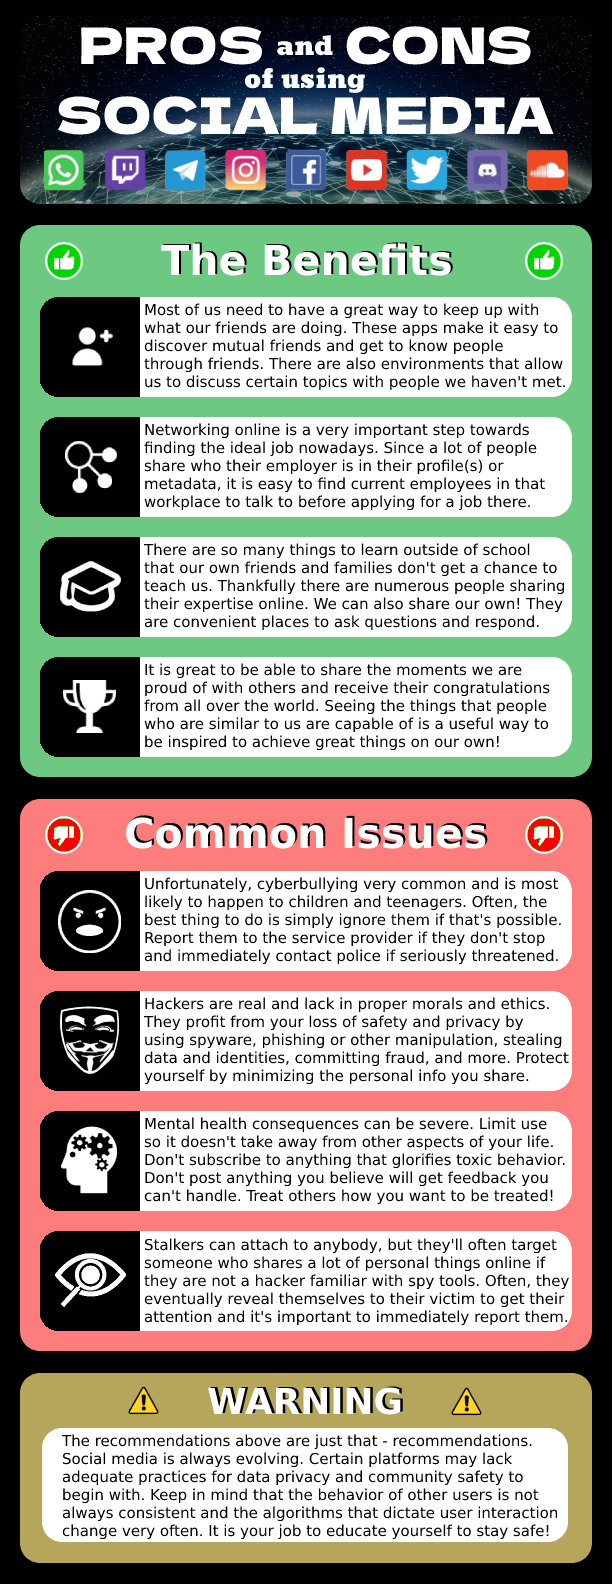
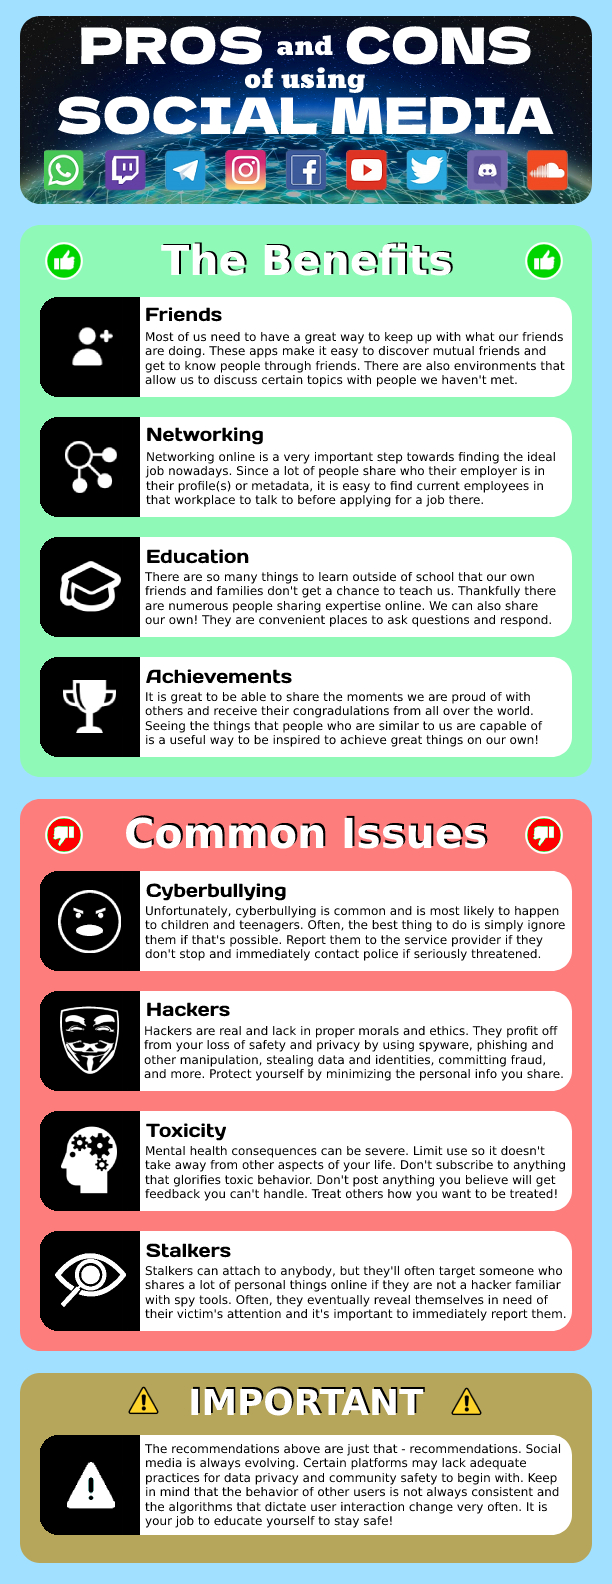
final v1

diff --git a/index.html b/index.html
@@ -1,17 +1,163 @@
 <!DOCTYPE html>
 <html lang="en" dir="ltr">
-    <head>
-        <meta charset="utf-8">
-        <title>Social Media Guidelines</title>
-    </head>
-    <body style="background-color:black">
-        <center>
-            <p>
-                <img src="SocialMediaGuidelines.jpg" />
-            </p>
-            <p>
-                <img src="Creative_commons_license_with_attribution.png" />
-            </p>
-        </center>
-    </body>
+<head>
+    <meta charset="utf-8">
+    <title>Social Media Guidelines</title>
+</head>
+<body style="background-color:black">
+    <center>
+        <p>
+            <img src="SocialMediaGuidelines.jpg" />
+        </p>
+        <p>
+            <img src="Creative_commons_license_with_attribution.png" />
+        </p>
+        
+    </center>
+    <p>Image Credits:</p>
+    <p><br></p>
+    <p>Network-Planet Image</p>
+    <ul>
+        <li>
+            <p>License:&nbsp;<a href="https://creativecommons.org/publicdomain/zero/1.0/">https://creativecommons.org/publicdomain/zero/1.0/</a></p>
+        </li>
+        <li>
+            <p>URL:&nbsp;<a href="https://www.publicdomainpictures.net/en/view-image.php?image=371622&picture=digitalization">https://www.publicdomainpictures.net/en/view-image.php?image=371622&amp;picture=digitalization</a></p>
+        </li>
+    </ul>
+    <p><br></p>
+    <p>Social Media Icons Set (Manually Separated)</p>
+    <ul>
+        <li>
+            <p>License:&nbsp;<a href="https://creativecommons.org/publicdomain/zero/1.0/">https://creativecommons.org/publicdomain/zero/1.0/</a></p>
+        </li>
+        <li>
+            <p>URL:&nbsp;<a href="https://www.publicdomainpictures.net/en/view-image.php?image=253469&picture=networking-social-media-icons">https://www.publicdomainpictures.net/en/view-image.php?image=253469&amp;picture=networking-social-media-icons</a></p>
+        </li>
+    </ul>
+    <p><br></p>
+    <p>Thumbs Up/Down Icons (Custom Made by Me)</p>
+    <ul>
+        <li>
+            <p>Author: Hans Heidmann</p>
+        </li>
+        <li>
+            <p>License:&nbsp;<a href="https://creativecommons.org/licenses/by-sa/3.0/">https://creativecommons.org/licenses/by-sa/3.0/</a></p>
+        </li>
+        <li>
+            <p>URL:&nbsp;<a href="https://hansheidmann.github.io/SocialMediaGuidelines/">https://hansheidmann.github.io/SocialMediaGuidelines/</a></p>
+        </li>
+    </ul>
+    <p><br></p>
+    <p>Add-Friend Icon</p>
+    <ul>
+        <li>
+            <p>Author: Karen Arnold</p>
+        </li>
+        <li>
+            <p>License:&nbsp;<a href="https://creativecommons.org/licenses/by/4.0/">https://creativecommons.org/licenses/by/4.0/</a></p>
+        </li>
+        <li>
+            <p>URL:&nbsp;<a href="https://www.publicdomainpictures.net/en/view-image.php?image=253469&picture=networking-social-media-icons">https://www.publicdomainpictures.net/en/view-image.php?image=253469&amp;picture=networking-social-media-icons</a></p>
+        </li>
+    </ul>
+    <p><br></p>
+    <p>Network Icon</p>
+    <ul>
+        <li>
+            <p>Author: IBM-Design</p>
+        </li>
+        <li>
+            <p>License:&nbsp;<a href="https://creativecommons.org/licenses/by/4.0/">https://creativecommons.org/licenses/by/4.0/</a></p>
+        </li>
+        <li>
+            <p>URL:&nbsp;<a href="https://iconscout.com/icon/network-363">https://iconscout.com/icon/network-363</a></p>
+        </li>
+    </ul>
+    <p><br></p>
+    <p>Graduation Icon</p>
+    <ul>
+        <li>
+            <p>Author: Typicons</p>
+        </li>
+        <li>
+            <p>License:&nbsp;<a href="https://creativecommons.org/licenses/by-sa/3.0/">https://creativecommons.org/licenses/by-sa/3.0/</a></p>
+        </li>
+        <li>
+            <p>URL:&nbsp;<a href="https://iconscout.com/icon/mortar-94">https://iconscout.com/icon/mortar-94</a></p>
+        </li>
+    </ul>
+    <p><br></p>
+    <p>Trophy Icon</p>
+    <ul>
+        <li>
+            <p>Author: Vaadin Icons</p>
+        </li>
+        <li>
+            <p>License:&nbsp;<a href="https://creativecommons.org/licenses/by/4.0/">https://creativecommons.org/licenses/by/4.0/</a></p>
+        </li>
+        <li>
+            <p>URL:&nbsp;<a href="https://iconscout.com/icon/trophy-487">https://iconscout.com/icon/trophy-487</a></p>
+        </li>
+    </ul>
+    <p><br></p>
+    <p>Angry-Face Icon</p>
+    <ul>
+        <li>
+            <p>Author: Gordon Dylan Johnson</p>
+        </li>
+        <li>
+            <p>License:&nbsp;<a href="https://creativecommons.org/publicdomain/zero/1.0/">https://creativecommons.org/publicdomain/zero/1.0/</a></p>
+        </li>
+        <li>
+            <p>URL:&nbsp;<a href="https://publicdomainvectors.org/en/free-clipart/Angry-face-image/48944.html">https://publicdomainvectors.org/en/free-clipart/Angry-face-image/48944.html</a></p>
+        </li>
+    </ul>
+    <p><br></p>
+    <p>Hacking-Mask Icon</p>
+    <ul>
+        <li>
+            <p>Author: Daniel Fowler</p>
+        </li>
+        <li>
+            <p>License:&nbsp;<a href="https://creativecommons.org/publicdomain/zero/1.0/">https://creativecommons.org/publicdomain/zero/1.0/</a></p>
+        </li>
+        <li>
+            <p>URL:&nbsp;<a href="https://openclipart.org/detail/267922/anonymous-face-mask">https://openclipart.org/detail/267922/anonymous-face-mask</a></p>
+        </li>
+    </ul>
+    <p><br></p>
+    <p>Mental-Health Icon</p>
+    <ul>
+        <li>
+            <p>Author: OpenClipArt</p>
+        </li>
+        <li>
+            <p>License:&nbsp;<a href="https://creativecommons.org/licenses/publicdomain/">https://creativecommons.org/licenses/publicdomain/</a></p>
+        </li>
+        <li>
+            <p>URL:&nbsp;<a href="https://freesvg.org/mental-health-icon-vector-clip-art">https://freesvg.org/mental-health-icon-vector-clip-art</a></p>
+        </li>
+    </ul>
+    <p><br></p>
+    <p>Magnifying-Eye Icon</p>
+    <ul>
+        <li>
+            <p>License:&nbsp;<a href="https://creativecommons.org/publicdomain/zero/1.0/">https://creativecommons.org/publicdomain/zero/1.0/</a></p>
+        </li>
+        <li>
+            <p>URL:&nbsp;<a href="https://www.publicdomainpictures.net/en/view-image.php?image=379878&picture=search-icon">https://www.publicdomainpictures.net/en/view-image.php?image=379878&amp;picture=search-icon</a></p>
+        </li>
+    </ul>
+    <p><br></p>
+    <p>Warning Icon</p>
+    <ul>
+        <li>
+            <p>License: CREATIVE COMMONS BY-SA 3.0</p>
+        </li>
+        <li>
+            <p>URL:&nbsp;<a href="https://commons.wikimedia.org/wiki/File:Antu_emblem-important.svg">https://commons.wikimedia.org/wiki/File:Antu_emblem-important.svg</a></p>
+        </li>
+    </ul>
+</body>
 </html>
